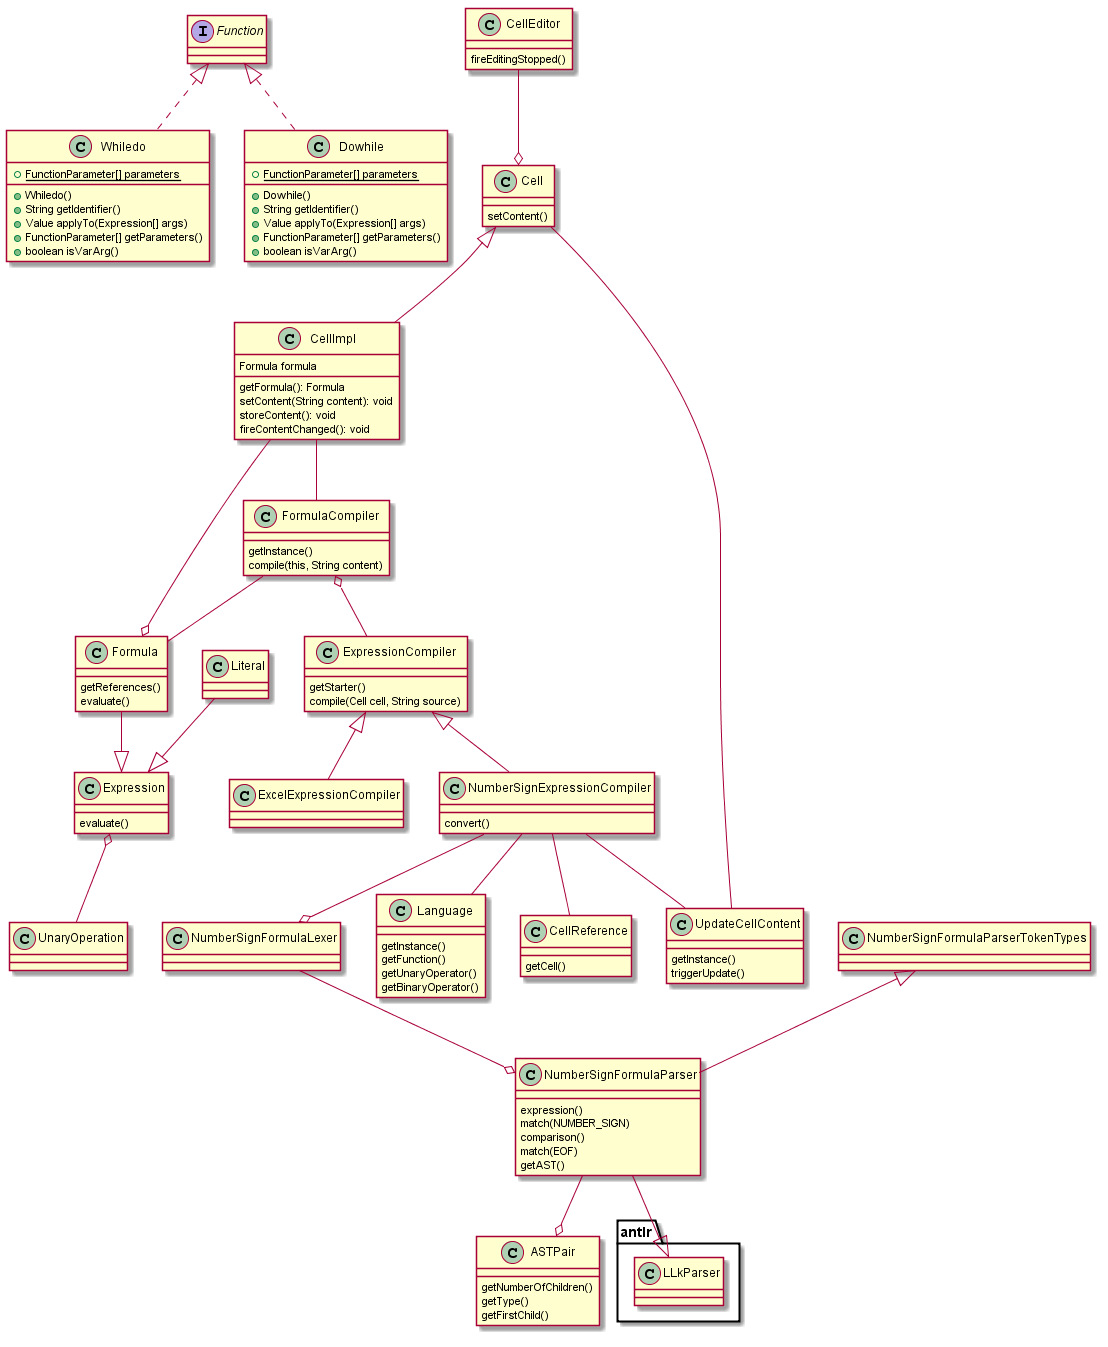
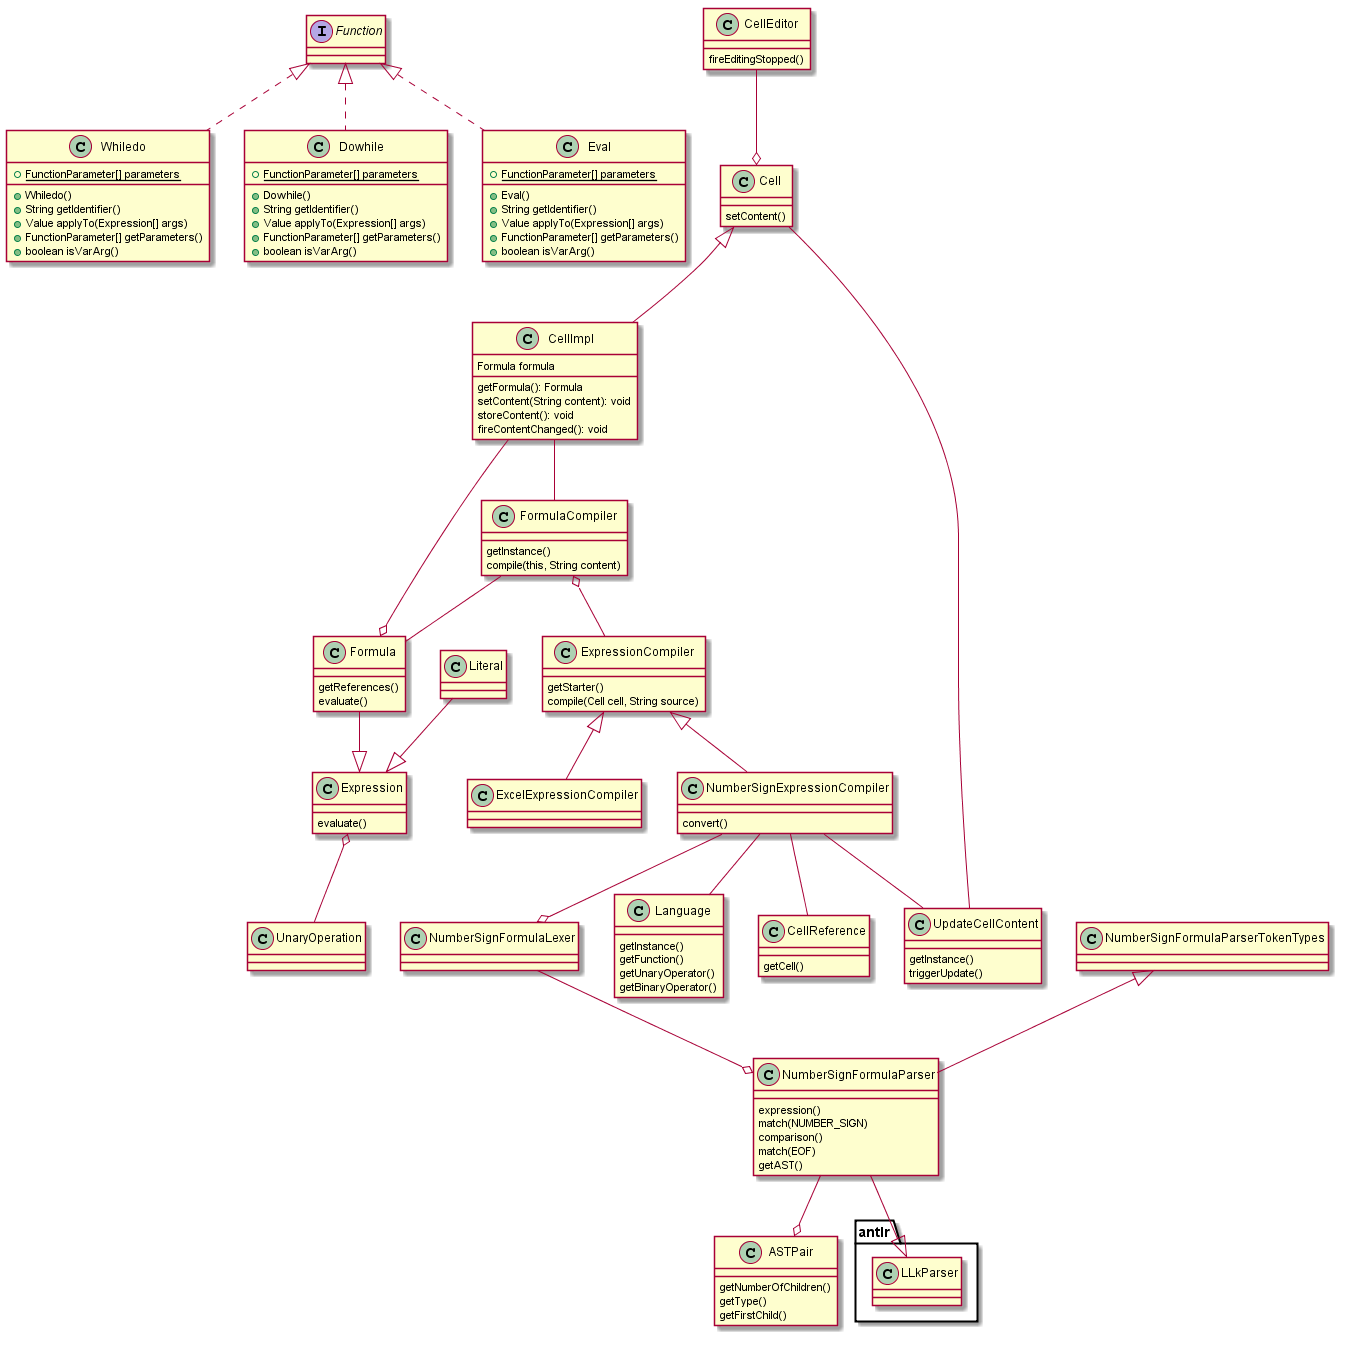
1100859: Updated the language compiler sequence diagram and class diagram ref #17

diff --git a/docs/1100859/rail3_w3/Uml.java b/docs/1100859/rail3_w3/Uml.java
@@ -1,3 +1,5 @@
+import csheets.core.formula.Expression;
+
 /*
 
 @startuml doc-files/use_case.png
@@ -55,6 +57,10 @@ loop recursive calls depending on the depth of the generated ANTLR AST
    NumberSignExpressionCompiler -> Language: getFunction()
   opt if function != NULL
    NumberSignExpressionCompiler -> ASTPair: getFirstChild()
+   alt if function instanceof Eval
+   NumberSignExpressionCompiler->NumberSignExpressionCompiler: expression = convert(cell, node.getFirstChild())
+   NumberSignExpressionCompiler->cell: setContent(expression.evaluate().toText())
+   end
    loop recursive calls while getFirstChild() != NULL
     NumberSignExpressionCompiler -> NumberSignExpressionCompiler: convert(cell, child)
    end
@@ -129,6 +135,14 @@ class Dowhile {
 	+boolean isVarArg()
 }
 
+class Eval {
+	+{static}FunctionParameter[] parameters
+	+Eval()
+	+String getIdentifier()
+	+Value applyTo(Expression[] args)
+	+FunctionParameter[] getParameters()
+	+boolean isVarArg()
+}
 
 interface Function {
 }
@@ -185,6 +199,7 @@ UpdateCellContent: getInstance()
 UpdateCellContent: triggerUpdate()
 Function <|.. Whiledo
 Function <|.. Dowhile
+Function <|.. Eval
 @enduml
 
 
